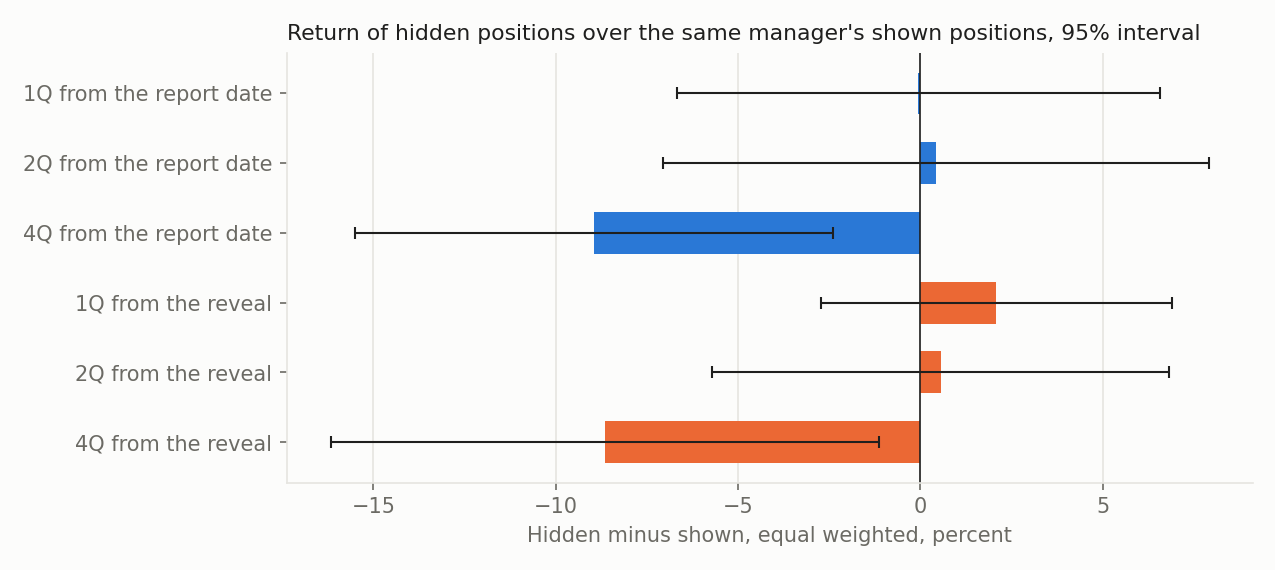
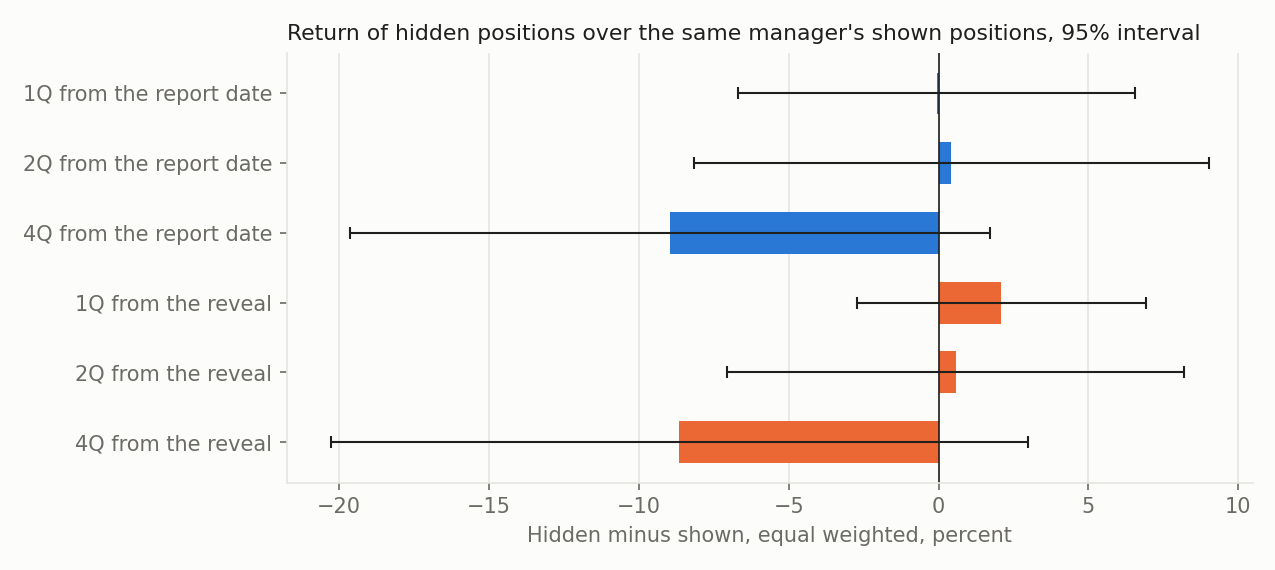
Use Newey-West t-statistics for overlapping multi-quarter windows
The hidden positions study averages each report quarter's hidden minus
shown return and tests the mean across quarters. For windows of two and
four quarters, consecutive report quarters share one and three quarters of
returns, so the quarterly series is autocorrelated and the plain t-test
overstated significance. Windows of k quarters now use Newey-West errors
with k - 1 lags.

Effect: the primary two quarter result is unchanged (+0.4%, t 0.11 to
0.10). The four quarter gap, -9.0%, was reported as significant (t -2.68)
and is not (t -1.64). In the split check the primary horizon stays
significant (t -2.16) but not every horizon does. The headline, its
guards and the reading notes now say so, and a test checks the estimator.

Claude-Session: https://claude.ai/code/session_013eQQvZtf5JRz7BdMA4Cp8R

diff --git a/scripts/render_hidden.py b/scripts/render_hidden.py
@@ -20,11 +20,12 @@ def headline(m: dict) -> str:
     p, y4, rv = r["report|2"], r["report|4"], r["reveal|2"]
     checks = {
         "the primary difference is not significant": abs(p["diff_ew"]["t"]) < 1.96,
-        "over four quarters hidden trail shown, equal weighted": y4["diff_ew"]["mean"] < 0 and y4["diff_ew"]["t"] < -1.96,
+        "over four quarters hidden trail shown, but not significantly": y4["diff_ew"]["mean"] < 0 and abs(y4["diff_ew"]["t"]) < 1.96,
         "value weighted, the four quarter gap is not significant": abs(y4["diff_vw"]["t"]) < 1.96,
         "nothing tradable after the reveal": all(abs(r[k]["diff_ew"]["t"]) < 1.96 for k in ("reveal|1", "reveal|2")),
         "the median pair has hidden behind at every horizon": all(v["diff_ew"]["median_pair"] < 0 for v in r.values()),
         "the split check never favours hidden": all(v["diff_ew"]["mean"] < 0 for v in x.values()),
+        "the split check is significant at the primary horizon": x["report|2"]["diff_ew"]["t"] < -1.96,
         "almost every hidden position is priced": s["share_hidden_priced"] > 0.99,
     }
     failed = [k for k, ok in checks.items() if not ok]
@@ -38,7 +39,8 @@ def headline(m: dict) -> str:
         f"{p['shown_ew']['mean']:.1%} for the positions it showed, a difference of {p['diff_ew']['mean']:+.1%} "
         f"(t = {p['diff_ew']['t']:.2f}). In the typical manager-quarter the hidden positions do worse "
         f"(median {p['diff_ew']['median_pair']:+.1%}), and over four quarters they trail by "
-        f"{abs(y4['diff_ew']['mean']):.1%} (t = {y4['diff_ew']['t']:.2f}), though not when weighted by position size. "
+        f"{abs(y4['diff_ew']['mean']):.1%}, but the four quarter windows overlap from one quarter to the next and once that "
+        f"is allowed for the gap is not significant (t = {y4['diff_ew']['t']:.2f}). "
         f"After the reveal there is nothing to trade: over the next two quarters the difference is "
         f"{rv['diff_ew']['mean']:+.1%} (t = {rv['diff_ew']['t']:.2f})."
     )
@@ -53,7 +55,8 @@ def results(m: dict) -> str:
            f"{r['report|2']['median_shown_positions']:.0f} shown, and the median amendment is filed "
            f"{s['median_days_to_reveal']:.0f} days after quarter end. Returns are quarter-end price changes "
            f"without dividends; cells average across managers within a quarter, then across quarters, with "
-           f"the t-statistic across quarters.", "",
+           f"the t-statistic across quarters. Windows of k quarters overlap from one report quarter to the next, "
+           f"so their t-statistics use Newey-West errors with k - 1 lags.", "",
            "| Window | Quarters | Pairs | Hidden | Shown | Difference | t | Median pair | Value weighted | t |",
            "|---|---|---|---|---|---|---|---|---|---|"]
     for k, name in ROWS:

diff --git a/src/hidden.py b/src/hidden.py
@@ -173,12 +173,25 @@ def pair_returns(pos: pd.DataFrame, amend: pd.DataFrame, panel: pd.DataFrame,
     return out
 
 
-def t_test_by_period(df: pd.DataFrame, col: str) -> dict:
-    """Average across managers within each report quarter, then a t-test across quarters."""
-    by = df.dropna(subset=[col]).groupby("period")[col].mean()
+def t_test_by_period(df: pd.DataFrame, col: str, lags: int = 0) -> dict:
+    """Average across managers within each report quarter, then a t-test across quarters.
+
+    Windows longer than one quarter overlap from one report quarter to the next (a four
+    quarter window starting in Q1 shares three quarters with the one starting in Q2), so
+    the quarterly series is autocorrelated. Pass lags = k - 1 for a k quarter window: the
+    standard error is then Newey-West with that many lags (Bartlett weights). lags = 0 is
+    the plain t-test.
+    """
+    by = df.dropna(subset=[col]).groupby("period")[col].mean().sort_index()
     n = len(by)
-    m, sd = float(by.mean()), float(by.std(ddof=1))
-    t = m / (sd / sqrt(n)) if sd > 0 else float("nan")
+    m = float(by.mean())
+    e = by.to_numpy() - m
+    s2 = float(e @ e) / n
+    for j in range(1, min(lags, n - 1) + 1):
+        s2 += 2 * (1 - j / (lags + 1)) * float(e[j:] @ e[:-j]) / n
+    if lags == 0:
+        s2 = float(e @ e) / (n - 1) if n > 1 else float("nan")
+    t = m / sqrt(s2 / n) if s2 > 0 else float("nan")
     x = df[col].dropna()
     return {"mean": m, "t": t, "quarters": n, "pairs": int(len(x)), "median_pair": float(x.median()),
             "share_positive": float((x > 0).mean())}

diff --git a/scripts/hidden_study.py b/scripts/hidden_study.py
@@ -37,9 +37,10 @@ def rounded(x):
 def summarize(pairs: pd.DataFrame) -> dict:
     out = {}
     for (anchor, k), g in pairs.groupby(["anchor", "k"]):
+        L = int(k) - 1  # overlapping windows: Newey-West with k - 1 quarterly lags
         out[f"{anchor}|{k}"] = {
-            "hidden_ew": H.t_test_by_period(g, "hidden_ew"), "shown_ew": H.t_test_by_period(g, "shown_ew"),
-            "diff_ew": H.t_test_by_period(g, "diff_ew"), "diff_vw": H.t_test_by_period(g, "diff_vw"),
+            "hidden_ew": H.t_test_by_period(g, "hidden_ew", L), "shown_ew": H.t_test_by_period(g, "shown_ew", L),
+            "diff_ew": H.t_test_by_period(g, "diff_ew", L), "diff_vw": H.t_test_by_period(g, "diff_vw", L),
             "median_hidden_positions": float(g.n_hidden.median()), "median_shown_positions": float(g.n_shown.median())}
     return out
 
@@ -56,7 +57,7 @@ def figure(pairs: pd.DataFrame, out: Path) -> None:
     for anchor, name, color in (("report", "from the report date", "#2a78d6"), ("reveal", "from the reveal", "#eb6834")):
         for k in (1, 2, 4):
             g = pairs[(pairs.anchor == anchor) & (pairs.k == k)]
-            r = H.t_test_by_period(g, "diff_ew")
+            r = H.t_test_by_period(g, "diff_ew", k - 1)
             labels.append(f"{k}Q {name}")
             means.append(r["mean"] * 100)
             halves.append(abs(r["mean"] / r["t"]) * 1.96 * 100 if r["t"] else 0)

diff --git a/tests/test_hidden.py b/tests/test_hidden.py
@@ -111,3 +111,18 @@ def frozen_panel():
 def test_known_prices(frozen_panel, cusip):
     date, price = KNOWN[cusip]
     assert frozen_panel.loc[pd.Timestamp(date), cusip] == pytest.approx(price, rel=0.005)
+
+
+def test_t_test_by_period_uses_newey_west_for_overlapping_windows():
+    # A series that repeats each value for three quarters, as overlapping windows do,
+    # has a far larger long run variance than its plain variance suggests.
+    vals = np.repeat([0.05, -0.02, 0.04, 0.01, -0.03, 0.06, 0.02, -0.01], 3)
+    df = pd.DataFrame({"period": pd.period_range("2015Q1", periods=len(vals), freq="Q").astype(str), "x": vals})
+    plain = H.t_test_by_period(df, "x")
+    nw = H.t_test_by_period(df, "x", lags=3)
+    e = vals - vals.mean()
+    n = len(e)
+    s2 = e @ e / n + sum(2 * (1 - j / 4) * (e[j:] @ e[:-j]) / n for j in range(1, 4))
+    assert nw["t"] == pytest.approx(vals.mean() / np.sqrt(s2 / n))
+    assert abs(nw["t"]) < abs(plain["t"])
+    assert plain["t"] == pytest.approx(vals.mean() / (vals.std(ddof=1) / np.sqrt(n)))

diff --git a/README.md b/README.md
@@ -12,33 +12,33 @@ Every number on this page is written by the scripts in `scripts/`, and CI fails 
 ## 1. Hidden positions
 
 <!-- hidden-headline:start (generated by scripts/render_hidden.py, do not edit by hand) -->
-**Answer, from 606 manager-quarters by 72 managers, 2013 to 2026: no.** Over the two quarters after the report date, about the time a position stays hidden, the positions a manager hid returned 7.5% on average against 7.0% for the positions it showed, a difference of +0.4% (t = 0.11). In the typical manager-quarter the hidden positions do worse (median -1.6%), and over four quarters they trail by 9.0% (t = -2.68), though not when weighted by position size. After the reveal there is nothing to trade: over the next two quarters the difference is +0.6% (t = 0.18).
+**Answer, from 606 manager-quarters by 72 managers, 2013 to 2026: no.** Over the two quarters after the report date, about the time a position stays hidden, the positions a manager hid returned 7.5% on average against 7.0% for the positions it showed, a difference of +0.4% (t = 0.10). In the typical manager-quarter the hidden positions do worse (median -1.6%), and over four quarters they trail by 9.0%, but the four quarter windows overlap from one quarter to the next and once that is allowed for the gap is not significant (t = -1.64). After the reveal there is nothing to trade: over the next two quarters the difference is +0.6% (t = 0.14).
 <!-- hidden-headline:end -->
 
 ![Hidden minus shown](results/figures/hidden.png)
 
 <!-- hidden-results:start (generated by scripts/render_hidden.py, do not edit by hand) -->
-1,603 amendments revealing 100,862 hidden positions, paired with 185,992 positions shown in the same managers' original filings. Report periods 2013-06-30 to 2026-03-31. The median manager-quarter reveals 9 hidden positions against 145 shown, and the median amendment is filed 137 days after quarter end. Returns are quarter-end price changes without dividends; cells average across managers within a quarter, then across quarters, with the t-statistic across quarters.
+1,603 amendments revealing 100,862 hidden positions, paired with 185,992 positions shown in the same managers' original filings. Report periods 2013-06-30 to 2026-03-31. The median manager-quarter reveals 9 hidden positions against 145 shown, and the median amendment is filed 137 days after quarter end. Returns are quarter-end price changes without dividends; cells average across managers within a quarter, then across quarters, with the t-statistic across quarters. Windows of k quarters overlap from one report quarter to the next, so their t-statistics use Newey-West errors with k - 1 lags.
 
 | Window | Quarters | Pairs | Hidden | Shown | Difference | t | Median pair | Value weighted | t |
 |---|---|---|---|---|---|---|---|---|---|
 | 1 quarter from the report date | 52 | 532 | +4.1% | +4.2% | -0.1% | -0.02 | -0.9% | +1.9% | +0.60 |
-| 2 quarters from the report date (primary) | 51 | 525 | +7.5% | +7.0% | +0.4% | +0.11 | -1.6% | +3.8% | +1.04 |
-| 4 quarters from the report date | 49 | 510 | +7.1% | +16.1% | -9.0% | -2.68 | -4.8% | -0.2% | -0.08 |
+| 2 quarters from the report date (primary) | 51 | 525 | +7.5% | +7.0% | +0.4% | +0.10 | -1.6% | +3.8% | +0.94 |
+| 4 quarters from the report date | 49 | 510 | +7.1% | +16.1% | -9.0% | -1.64 | -4.8% | -0.2% | -0.07 |
 | 1 quarter from the reveal | 50 | 500 | +3.6% | +1.5% | +2.1% | +0.85 | -1.7% | +3.3% | +1.25 |
-| 2 quarters from the reveal | 50 | 494 | +4.8% | +4.2% | +0.6% | +0.18 | -3.4% | +2.9% | +0.91 |
-| 4 quarters from the reveal | 47 | 471 | +8.7% | +17.4% | -8.7% | -2.26 | -4.0% | -1.3% | -0.64 |
+| 2 quarters from the reveal | 50 | 494 | +4.8% | +4.2% | +0.6% | +0.14 | -3.4% | +2.9% | +0.82 |
+| 4 quarters from the reveal | 47 | 471 | +8.7% | +17.4% | -8.7% | -1.46 | -4.0% | -1.3% | -0.49 |
 
 **Check: dropping securities with a suspected split instead of adjusting for it**
 
 | Window | Difference | t |
 |---|---|---|
 | 1 quarter from the report date | -2.2% | -1.71 |
-| 2 quarters from the report date (primary) | -4.8% | -2.66 |
-| 4 quarters from the report date | -11.7% | -3.60 |
+| 2 quarters from the report date (primary) | -4.8% | -2.16 |
+| 4 quarters from the report date | -11.7% | -2.30 |
 | 1 quarter from the reveal | -2.4% | -2.03 |
-| 2 quarters from the reveal | -4.7% | -3.28 |
-| 4 quarters from the reveal | -6.6% | -2.43 |
+| 2 quarters from the reveal | -4.7% | -2.74 |
+| 4 quarters from the reveal | -6.6% | -1.59 |
 
 The six heaviest users of confidential treatment in the sample (HBK INVESTMENTS L P, Davidson Kempner Capital Management LP, UBS OCONNOR LLC, NORGES BANK, Taconic Capital Advisors LP, Alyeska Investment Group, L.P.) account for 40% of manager-quarters.
 <!-- hidden-results:end -->
@@ -47,8 +47,8 @@ The six heaviest users of confidential treatment in the sample (HBK INVESTMENTS 
 
 - **Hiding is not a sign of a better idea here.** On average the two sides earn the same over the time a position stays hidden, and in the typical manager-quarter the hidden side does worse. Agarwal, Jiang, Tang and Yang (2013) found the opposite for 1999 to 2007; that result does not show up in 2013 to 2026.
 - **Who hides changes what is hidden.** Several of the heaviest users run event-driven and merger arbitrage strategies, where a fund keeps a stake quiet while it builds it. A merger target's upside is capped at the deal price, so its return over the next year is small next to an ordinary equity book. That reading is a hypothesis; this study does not classify positions by deal status.
-- **Equal and value weights disagree over four quarters.** Equal weighted, hidden positions trail significantly; weighted by position size they do not, so the gap comes from the smaller positions.
-- **The split check is harsher.** Dropping every security that split during a window, instead of adjusting its price, makes the hidden side significantly worse at every horizon, including the primary one. It compares a narrower set of stocks, so it is a check rather than the answer, but it points the same way: nothing here suggests hidden positions do better.
+- **The four quarter gap is not significant.** Equal weighted, hidden positions trail by about 9% over four quarters, but consecutive four quarter windows share three quarters, and with Newey-West errors that allow for the overlap the gap is within noise. Weighted by position size it is close to zero.
+- **The split check is harsher.** Dropping every security that split during a window, instead of adjusting its price, makes the hidden side worse at every horizon and significantly so at the primary one. It compares a narrower set of stocks, so it is a check rather than the answer, but it points the same way: nothing here suggests hidden positions do better.
 - **There is nothing to copy.** By the time the amendment is public, a typical four or five months after quarter end, the hidden positions earn no more than the shown ones.
 
 ### Design
